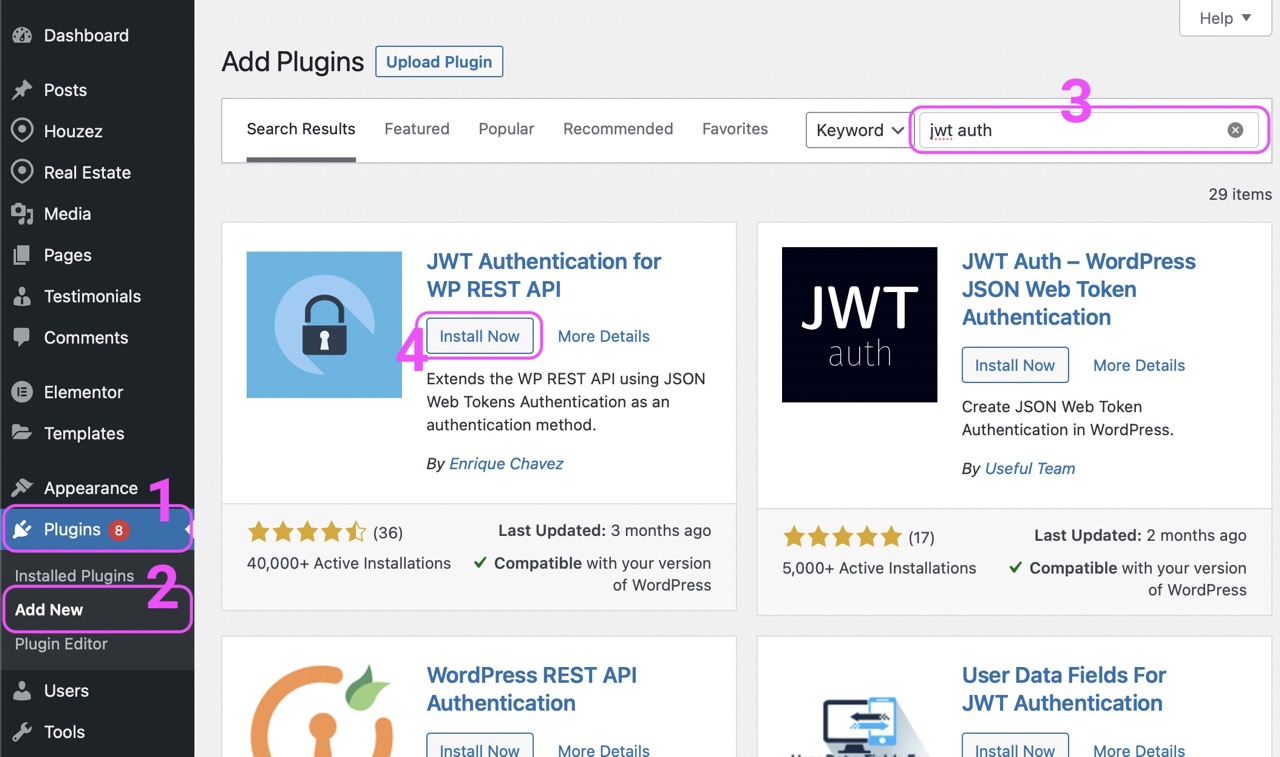
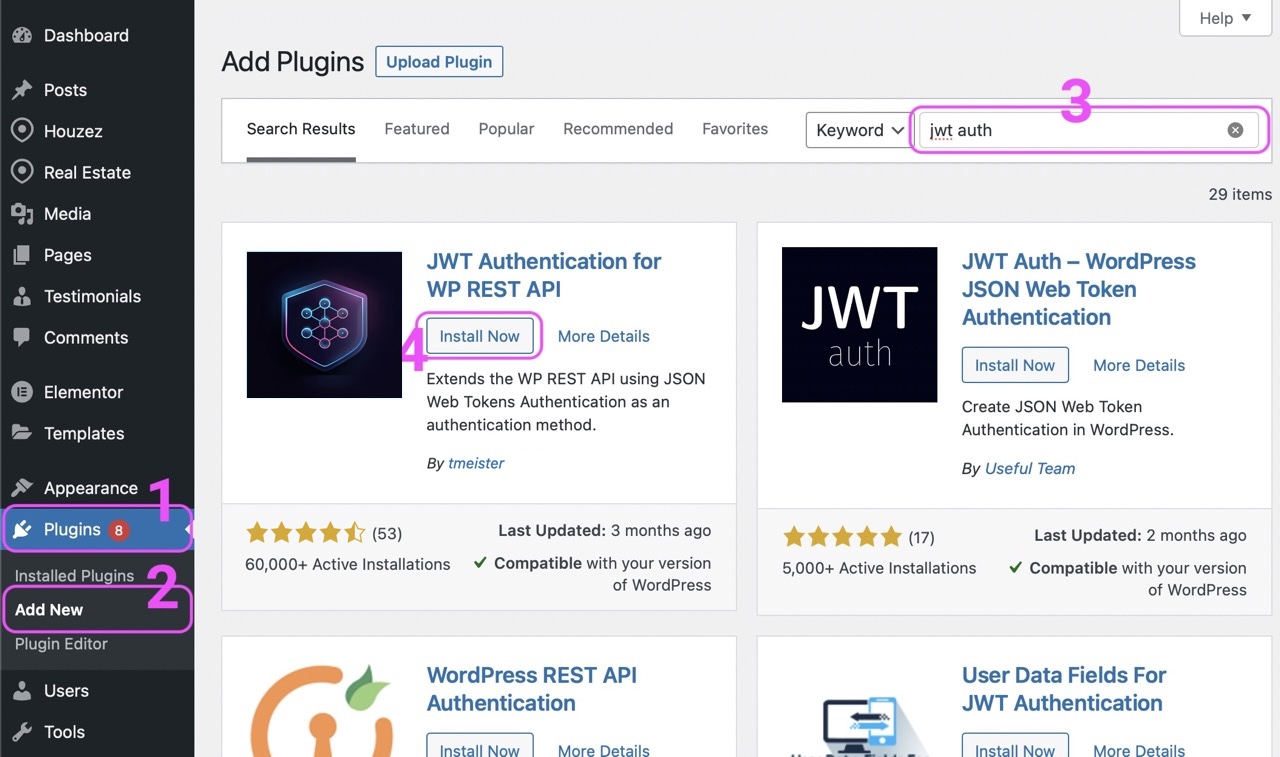
update plugin link

Changed region(s): [[0.1875, 0.3342, 0.3125, 0.5469], [0.1875, 0.6684, 0.3438, 0.7596], [0.3438, 0.6077, 0.4375, 0.638]]

diff --git a/_docs/tools/3_jwt_auth.md b/_docs/tools/3_jwt_auth.md
@@ -17,7 +17,7 @@ To install this plugin, you go into your wordpress dashboard, from left menu sel
 1. Wordpress > Left Menu > Plugin
 2. From plugin choose Add New
 3. Search 'JWT Auth'.
-4. From the Results, Choose 'JWT Authentication for WP REST API' by 'Enrique Chavez' and Click Install
+4. From the Results, Choose 'JWT Authentication for WP REST API' by 'tmeister' and Click Install
 5. Activate the Plugin.
 
 ![how to add new wordpress plugin](../../images/install-wp-plugin.jpg)
@@ -35,4 +35,4 @@ JWT Auth Plugin require a unique key to be setup in your wordpress installation.
 
 ![JWT Auth Secret Key](../../images/jwt_auth_secret_key_setup.jpg)
 
-Conslut Description of JWT Auth Plugin for more guidance here: https://wordpress.org/plugins/jwt-authentication-for-wp-rest-api
+Consult Description of JWT Auth Plugin for more guidance here: https://wordpress.org/plugins/jwt-authentication-for-wp-rest-api/